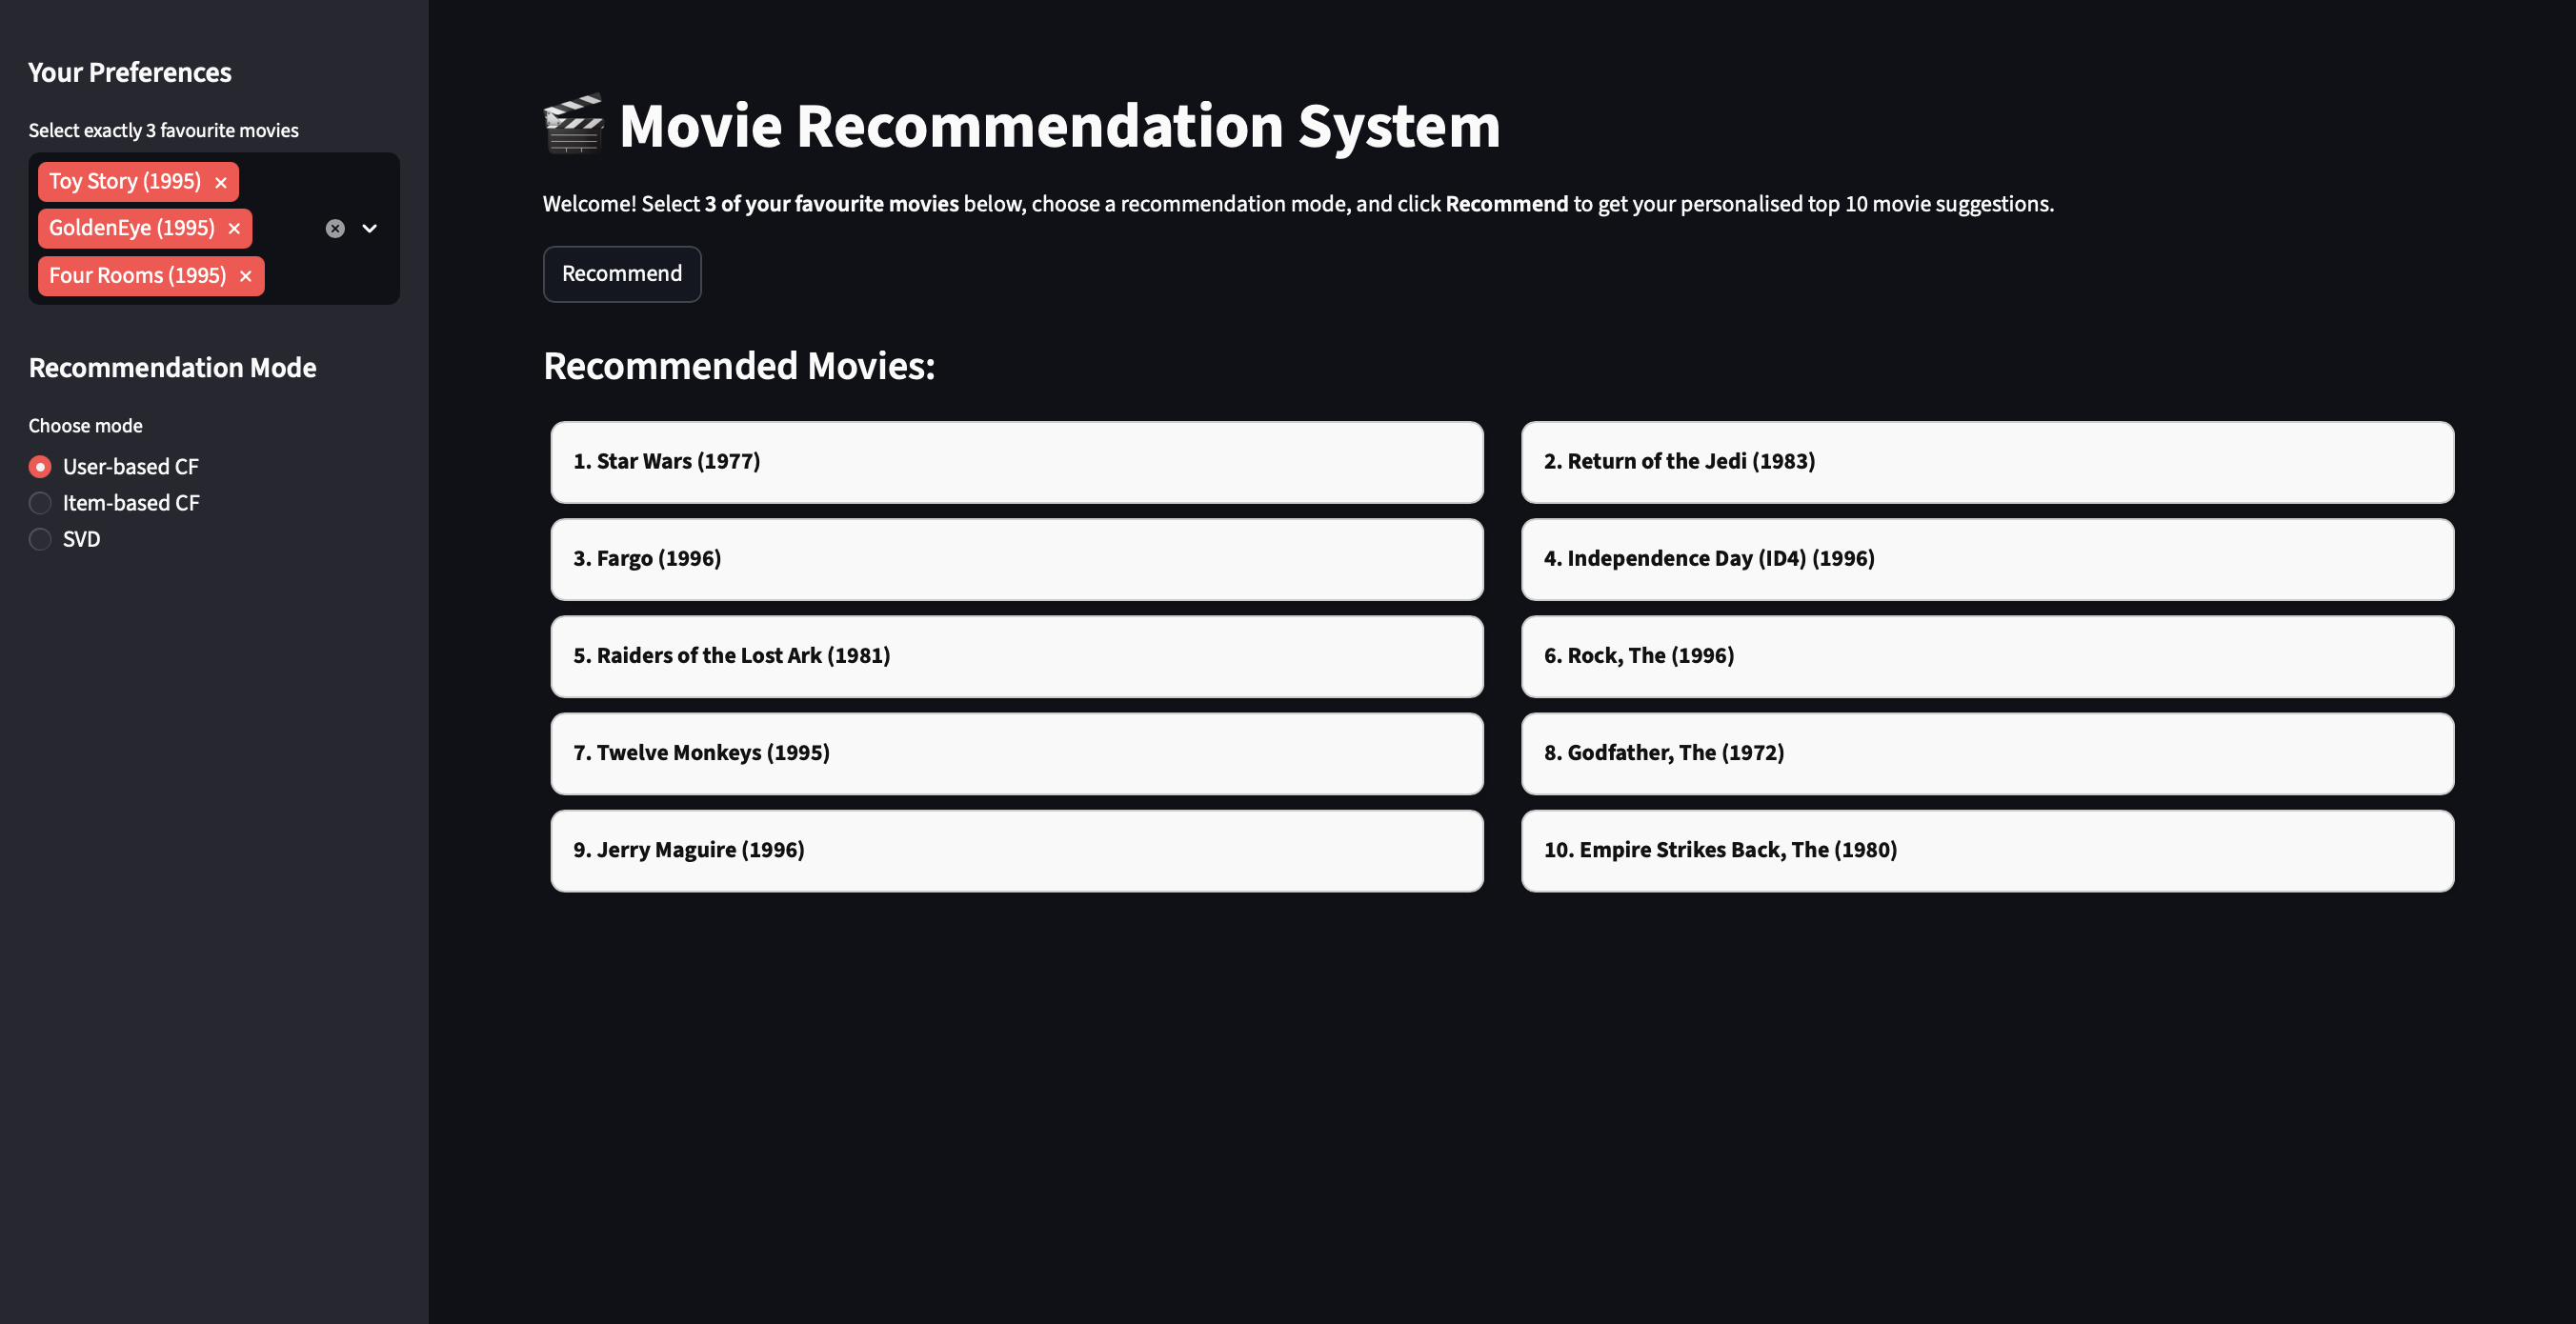
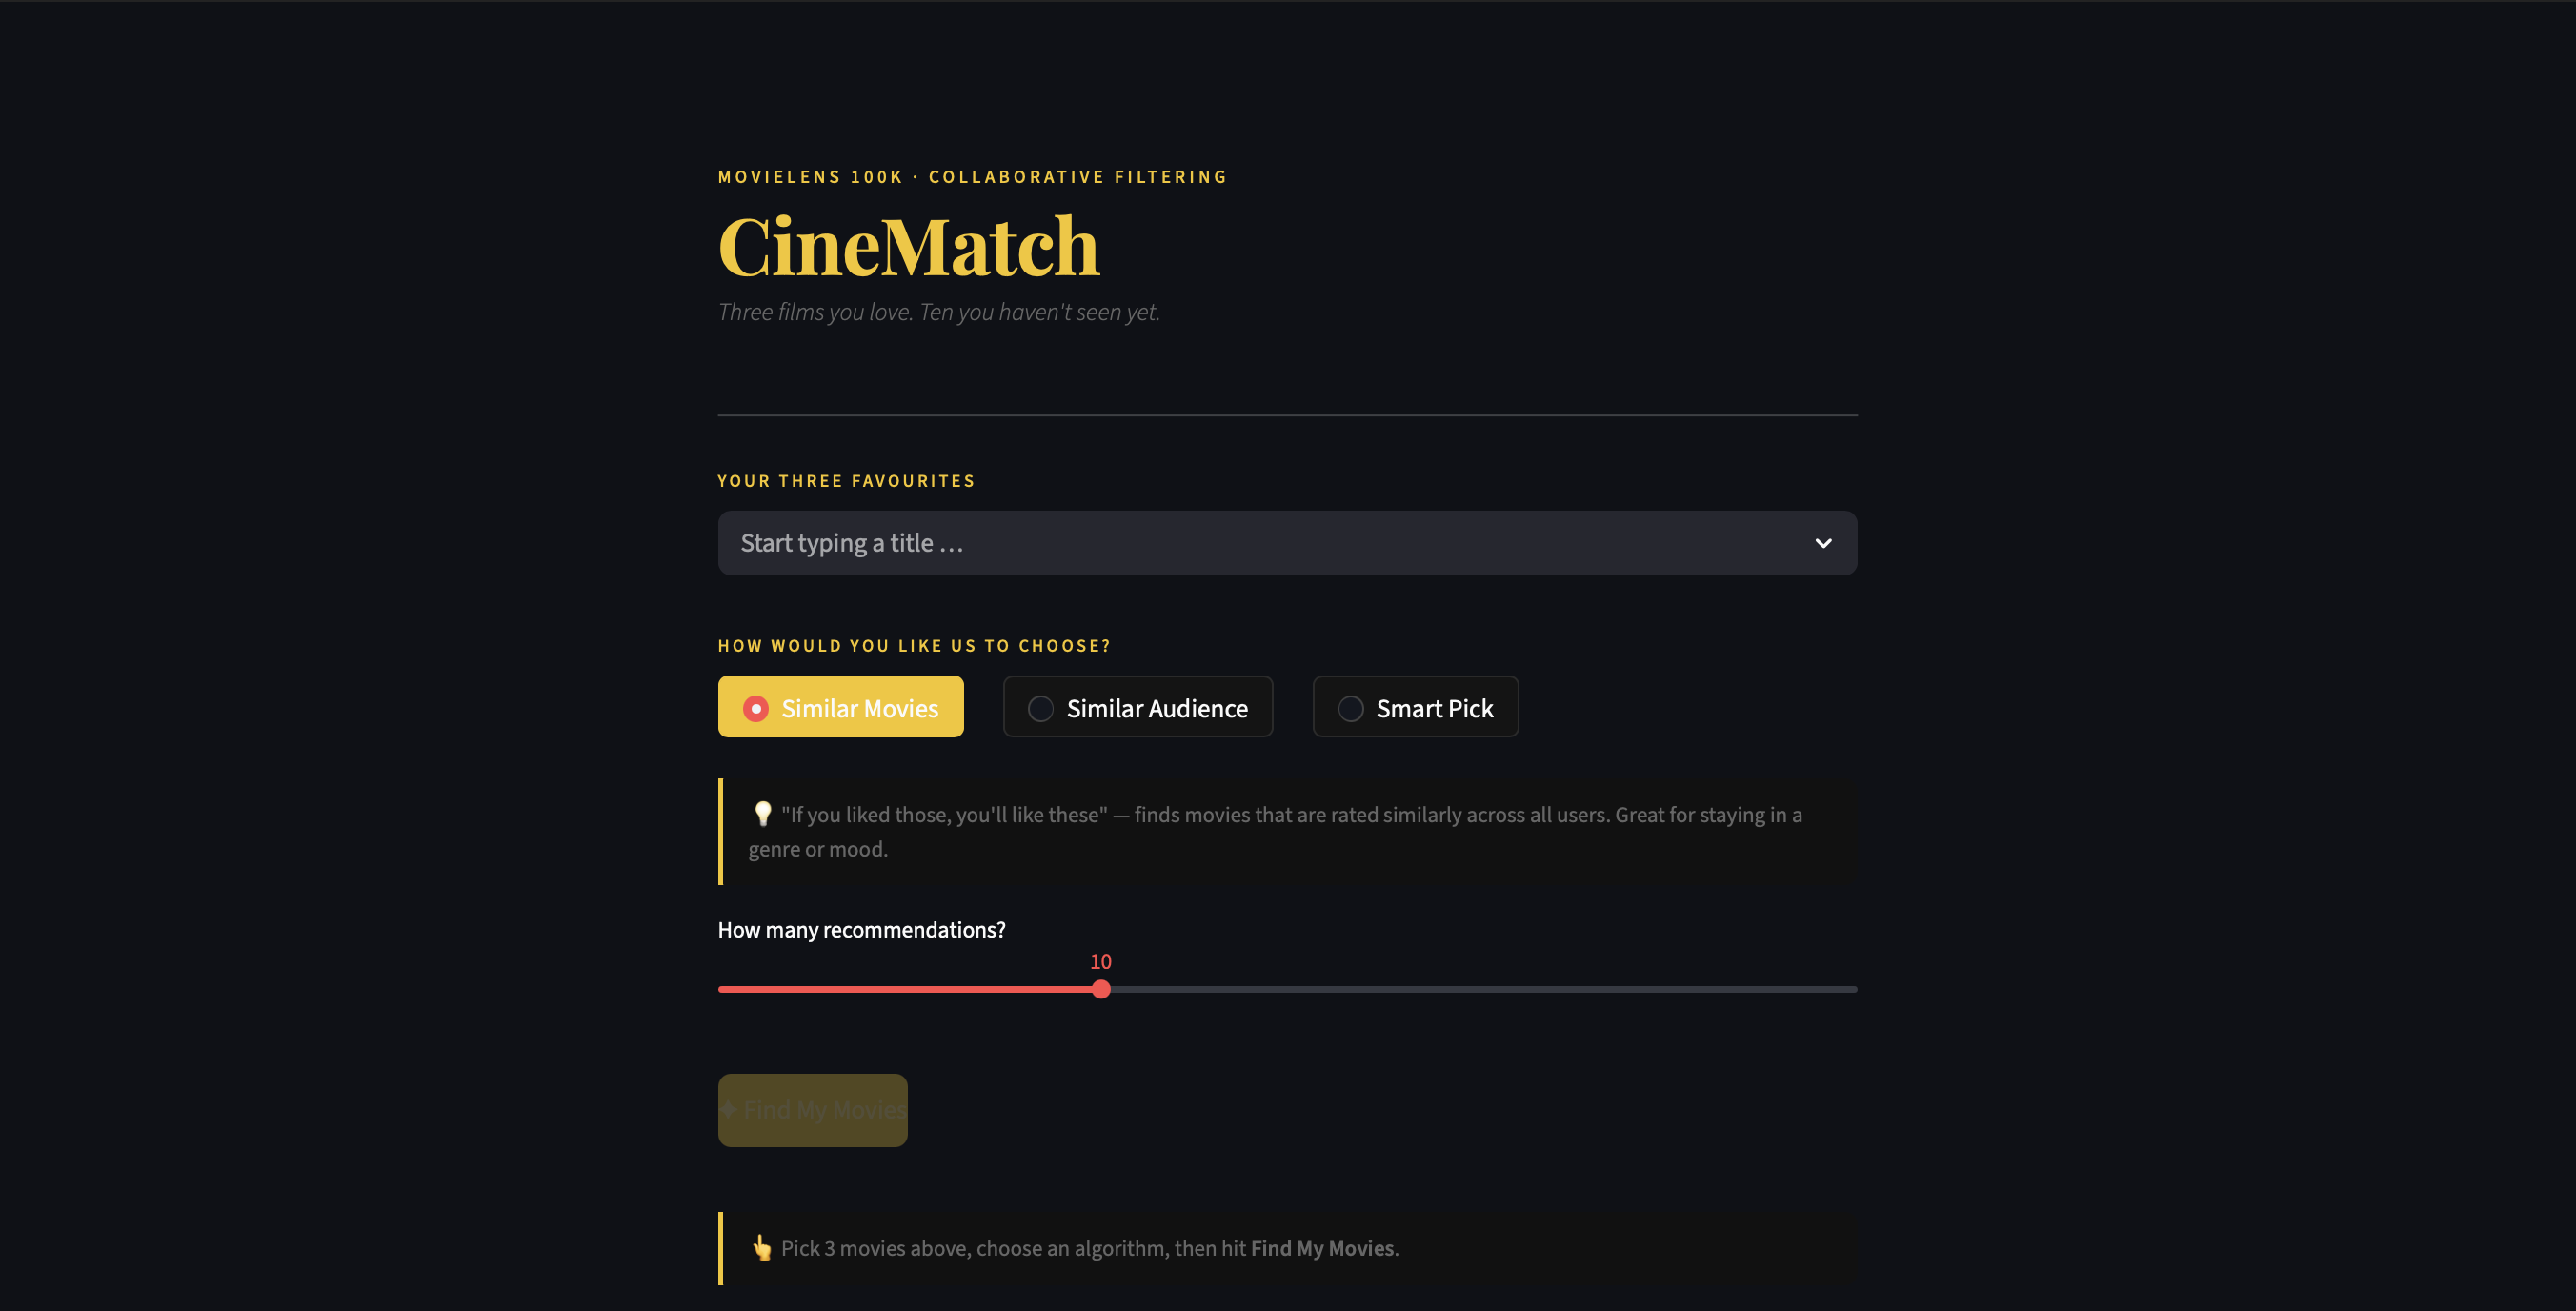
updated info

diff --git a/mai-cv/src/data/projectsData.ts b/mai-cv/src/data/projectsData.ts
@@ -1,7 +1,7 @@
 export interface Project {
   id: number;
   title: string;
-  type: "AI & ML" | "Data Science" | "Software" | "Embedded Systems";
+  type: "AI & ML" | "Data Analysis" | "Software" | "Embedded Systems";
   subType?: string;
 
   problem: string;
@@ -24,10 +24,10 @@ export const projectsData: Project[] = [
     imgSrc: "/projects/premier-league.png",
 
     problem:
-      "Predicting football match outcomes is difficult , results depend on form, momentum, opponent strength, and market expectations, all of which change week to week.",
+      "Football match outcomes are shaped by a complex interplay of team form, momentum, opponent strength, and market expectations — all of which shift week to week, making reliable prediction inherently difficult.",
 
     solution:
-      "Built an end-to-end prediction pipeline using 4 seasons of Premier League data (1,520 matches). Engineered features including rolling form averages, win/loss streaks, and bookmaker-implied probabilities. Trained and tuned a Random Forest classifier achieving 66% accuracy, Deployed as an interactive web app where users can select any fixture and receive a prediction with plain-English reasoning explaining the key factors behind it.",
+      "Built an end-to-end prediction pipeline trained on four seasons of Premier League data (1,520 matches). Engineered features including rolling form averages, win/loss streaks, and bookmaker-implied probabilities. Trained and optimised a Random Forest classifier achieving 66% accuracy, then deployed it as an interactive Streamlit web app where users can select any fixture and receive a prediction with plain-English reasoning explaining the key contributing factors.",
 
     stack: ["Python,", "Pandas,", "Scikit-learn,", "TensorFlow,", "Matplotlib,", "Streamlit,","Rest API"],
 
@@ -42,10 +42,10 @@ export const projectsData: Project[] = [
     title: "Engine Anomaly Detection & RUL Prediction",
 
     problem:
-      "Reactive maintenance increases operational cost and failure risk in industrial systems.",
+      "In industrial systems, degradation often goes undetected until a critical threshold is reached — making reactive maintenance strategies costly and operationally risky.",
 
     solution:
-      "Designed a GRU-based recurrent neural network to model degradation patterns in  engine time-series data. Implemented sequence modelling and early anomaly detection to estimate remaining useful life prior to failure thresholds.",
+      "Designed a GRU-based recurrent neural network to model temporal degradation patterns in engine sensor time-series data. Implemented sequence modelling and early anomaly detection to estimate remaining useful life prior to failure thresholds, enabling proactive maintenance scheduling.",
 
     stack: ["Python,", "TensorFlow,", "GRU,", "Pandas,", "NumPy"],
 
@@ -60,10 +60,10 @@ export const projectsData: Project[] = [
     title: "Traffic Violation Detection (In Progress)",
 
     problem:
-      "Manual CCTV monitoring is inconsistent and does not scale.",
+      "Manual CCTV monitoring is inconsistent, labour-intensive, and fails to scale effectively for real-time enforcement across large traffic networks.",
 
     solution:
-      "Building a real-time object detection pipeline using YOLOv8 and OpenCV. The system identifies vehicles and rule violations directly from video streams, optimised for inference speed and detection accuracy.",
+      "Building a real-time object detection pipeline using YOLOv8 and OpenCV to identify vehicles and traffic rule violations directly from live video streams, optimised for inference speed and detection accuracy under varying environmental conditions.",
 
     stack: ["Python,", "YOLOv8,", "OpenCV,", "PyTorch,"],
 
@@ -79,10 +79,10 @@ export const projectsData: Project[] = [
     imgSrc: "/projects/CVMatcher.png",
 
     problem:
-      "Applicants struggle to quantify CV alignment with job specifications.",
+      "Applicants often struggle to objectively assess how well their CV aligns with a job specification, leading to unfocused applications and missed opportunities.",
 
     solution:
-      "Developed an NLP pipeline using TF-IDF and semantic similarity scoring to rank CV-job relevance. Deployed via Streamlit for interactive comparison and automated skill-gap highlighting.",
+      "Developed an NLP pipeline using TF-IDF vectorisation and semantic similarity scoring to rank CV-to-job-description relevance. Deployed as an interactive Streamlit web app with automated skill-gap highlighting to provide actionable feedback.",
 
     stack: ["Python,", "spaCy,", "Scikit-learn,", "TF-IDF,", "Streamlit"],
 
@@ -98,14 +98,14 @@ export const projectsData: Project[] = [
   imgSrc: "/projects/MovieRecommendation.png",
 
   problem:
-    "Users face content overload without personalised filtering.",
+    "Users face content overload on streaming platforms, where the absence of meaningful personalisation makes discovering relevant titles time-consuming and frustrating.",
 
   solution:
-    "Implemented collaborative filtering with similarity scoring and matrix factorisation. Generated ranked recommendations using user-item interaction matrices and cosine similarity optimisation.",
+    "Implemented a collaborative filtering system using matrix factorisation and cosine similarity scoring over user-item interaction matrices. Generated ranked, personalised recommendations that improve in relevance as interaction history grows.",
 
   stack: ["Python,", "Pandas,", "NumPy,", "Scikit-learn,", "Matplotlib"],
   githubLink:
-    "https://github.com/maik122/Elevvo.git"
+    "https://recommendamovie.streamlit.app/"
 },
 {
   id: 35,
@@ -115,10 +115,10 @@ export const projectsData: Project[] = [
   imgSrc: "/projects/genre-ai.png",
 
   problem:
-    "Audio signals contain complex frequency patterns not captured by raw metadata.",
+    "Audio signals contain rich, complex frequency patterns that raw metadata alone cannot capture, making automated genre classification a non-trivial deep learning challenge.",
 
   solution:
-    "Extracted MFCC features and spectrogram representations. Built CNN-based classifiers and experimented with transfer learning to improve multi-class genre prediction performance..",
+    "Extracted MFCC features and spectrogram representations from audio samples. Developed CNN-based classifiers and applied transfer learning techniques to improve multi-class genre prediction performance across diverse audio inputs.",
 
   stack: ["Python,", "TensorFlow,", "Keras,", "Librosa,", "OpenCV"],
   githubLink:
@@ -131,28 +131,45 @@ export const projectsData: Project[] = [
   title: "Traffic Sign Recognition",
 
   problem:
-    "Autonomous systems require reliable visual classification under varying environmental conditions.",
+    "Autonomous driving systems require robust, reliable visual classification of traffic signs under varying lighting, occlusion, and real-world environmental conditions.",
 
   solution:
-    "Trained convolutional neural networks on augmented traffic sign datasets. Compared custom architectures with MobileNet-based transfer learning to improve generalisation accuracy.",
+    "Trained convolutional neural networks on augmented traffic sign datasets, benchmarking custom CNN architectures against MobileNet-based transfer learning to evaluate generalisation accuracy and inference performance.",
 
   stack: ["Python,", "TensorFlow,", "Keras,", "OpenCV"],   
   githubLink:
     "https://github.com/maik122/Elevvo.git"
+  
 },
-  // ================= Data Science =================
+{
+  id: 33,
+  type: "AI & ML",
+  subType: "Machine Learning & Predictive Modelling",
+  title: "Loan Approval Prediction",
+
+  problem:
+    "Financial institutions need accurate, interpretable models to assess loan approval outcomes consistently while managing default risk across diverse applicant profiles.",
+
+  solution:
+    "Preprocessed applicant data by handling missing values, encoding categorical features, and addressing class imbalance. Trained and evaluated classification models using precision, recall, and F1-score to ensure reliable, balanced performance across approval outcomes.",
+
+  stack: ["Python,", "Pandas,", "Scikit-learn,", "Matplotlib"],
+  githubLink:
+    "https://github.com/maik122/Elevvo.git" 
+},
+  // ================= Data Analysis =================
 
   {
     id: 5,
-    type: "Data Science",
-    subType: "Data Analysis & Exploratory Projects",
-    title: "Netflix Movies & TV Shows EDA",
+    type: "Data Analysis",
+    subType: "Exploratory Data Analysis",
+    title: "Netflix Movies & TV Shows ",
 
     problem:
-      "Large content libraries obscure strategic production and distribution trends.",
+      "Large content libraries obscure underlying trends in production strategy, genre investment, and regional distribution — making data-driven insights difficult to surface without structured analysis.",
 
     solution:
-      "Performed structured exploratory analysis on 8,800+ titles. Cleaned and transformed data, identified genre distribution patterns, and visualised regional and temporal production trends to extract actionable insights.",
+      "Performed structured exploratory data analysis on 8,800+ titles. Cleaned and transformed raw catalogue data, identified genre distribution patterns, and visualised regional and temporal production trends to extract actionable strategic insights.",
 
     stack: ["Python,", "Pandas,", "Matplotlib,", "Seaborn,"],
 
@@ -162,15 +179,15 @@ export const projectsData: Project[] = [
 
   {
     id: 6,
-    type: "Data Science",
-    subType: "Machine Learning & Predictive Modelling",
+    type: "Data Analysis",
+    subType: "Classification & Clustering",
     title: "Customer Segmentation — Mall Customers",
 
     problem:
-      "Generic marketing reduces targeting efficiency.",
+      "Generic, untargeted marketing campaigns reduce conversion efficiency by failing to account for the distinct spending behaviours and needs of different customer groups.",
 
     solution:
-      "Applied K-Means and DBSCAN clustering after feature scaling to segment customers by income and spending behaviour. Analysed cluster profiles to support targeted campaign strategies.",
+      "Applied K-Means and DBSCAN clustering algorithms after feature scaling to segment customers by income and spending behaviour. Analysed cluster profiles to generate targeted campaign recommendations tailored to each distinct customer segment.",
 
     stack: ["Python,", "Scikit-learn,", "Pandas,", "Matplotlib,", "Seaborn,"],
 
@@ -179,15 +196,15 @@ export const projectsData: Project[] = [
   },
 {
   id: 31,
-  type: "Data Science",
-  subType: "Machine Learning & Predictive Modelling",
+  type: "Data Analysis",
+  subType: "Prediction & Forecasting",
   title: "Student Score Prediction",
 
   problem:
-    "Educational outcomes are influenced by multiple behavioural variables.",
+    "Academic performance is influenced by a range of behavioural and demographic variables, making it difficult to identify at-risk students without a structured predictive framework.",
 
   solution:
-    "Performed data cleaning and exploratory analysis, then implemented linear and polynomial regression models to predict exam scores. Evaluated model accuracy and visualised predictions to understand performance patterns.",
+    "Performed data cleaning and exploratory analysis before implementing linear and polynomial regression models to predict exam scores. Evaluated model accuracy and visualised prediction trends to surface key behavioural drivers of student performance.",
 
   stack: ["Python,", "Pandas,", "Scikit-learn,", "Matplotlib"],
   githubLink:
@@ -195,49 +212,33 @@ export const projectsData: Project[] = [
 },
 {
   id: 32,
-  type: "Data Science",
-  subType: "Machine Learning & Predictive Modelling",
+  type: "Data Analysis",
+  subType: "Classification & Clustering",
   title: "Forest Cover Type Classification",
 
   problem:
-    "Accurately classifying forest cover types using environmental and cartographic features is essential for ecological management.",
+    "Accurately classifying forest cover types from environmental and cartographic features is essential for ecological resource management and land-use planning.",
 
   solution:
-    "Trained and compared Random Forest and XGBoost models for multi-class classification. Evaluated performance using classification metrics and visualised feature importance.",
+    "Trained and compared Random Forest and XGBoost models for multi-class forest cover classification. Evaluated performance using comprehensive classification metrics and visualised feature importance to interpret model behaviour.",
 
   stack: ["Python,", "Scikit-learn,", "XGBoost,", "Pandas,", "Matplotlib"],
 
   githubLink:
     "https://github.com/maik122/Elevvo.git"
 },
-{
-  id: 33,
-  type: "Data Science",
-  subType: "Machine Learning & Predictive Modelling",
-  title: "Loan Approval Prediction",
-
-  problem:
-    "Financial institutions need reliable models to predict loan approval outcomes while managing risk.",
-
-  solution:
-    "Handled missing values, encoded categorical features, and addressed class imbalance. Evaluated models using precision, recall, and F1-score to ensure reliability.",
-
-  stack: ["Python,", "Pandas,", "Scikit-learn,", "Matplotlib"],
-  githubLink:
-    "https://github.com/maik122/Elevvo.git" 
-},
 
 {
   id: 36,
-  type: "Data Science",
-  subType: "Time Series Forecasting",
+  type: "Data Analysis",
+  subType: "Prediction & Forecasting",
   title: "Sales Forecasting",
 
   problem:
-    "Businesses require accurate sales forecasts to optimise inventory and strategic planning.",
+    "Without accurate sales forecasts, businesses struggle to optimise inventory, allocate resources effectively, and make informed strategic planning decisions.",
 
   solution:
-    "Created time-based features and applied regression models to predict future sales. Explored rolling averages and XGBoost for improved time-aware forecasting.",
+    "Engineered time-based features and applied regression models to forecast future sales volumes. Explored rolling average smoothing and XGBoost-based approaches to improve time-aware prediction accuracy.",
 
   stack: ["Python,", "Pandas,", "XGBoost,", "Matplotlib,", "Seaborn"],
   githubLink:
@@ -254,10 +255,10 @@ export const projectsData: Project[] = [
     imgSrc: "/projects/TransferValueComparison.png",
 
     problem:
-      "Estimating football player market value requires combining statistical analysis with an accessible interface for users.",
+      "Estimating a football player's market value requires combining statistical performance data with an accessible interface — a balance rarely achieved in publicly available tools.",
 
     solution:
-      "Developed a Flask-based web application with SQLite database integration, user authentication, dashboards, and predictive valuation features.",
+      "Developed a Flask-based web application with SQLite database integration, user authentication, performance dashboards, and a predictive valuation feature for estimating player transfer market value.",
 
     stack: ["Python,", "Flask,", "SQLite,", "HTML,", "CSS,"],
 
@@ -273,10 +274,10 @@ export const projectsData: Project[] = [
     imgSrc: "/projects/systemHomePage.png",
 
     problem:
-      "Train booking systems require structured scheduling, seat management, and user/admin interfaces for efficient operation.",
+      "Railway booking systems must handle complex scheduling logic, seat availability management, and distinct user and administrator workflows within a single, cohesive application.",
 
     solution:
-      "Built a desktop-based railway booking system using Tkinter, featuring user ticket booking, schedule management, and administrative controls.",
+      "Built a desktop-based railway booking system using Tkinter, featuring end-user ticket booking, live schedule management, and a dedicated administrative control panel for staff operations.",
 
     stack: ["Python,", "Tkinter"],
 
@@ -292,10 +293,10 @@ export const projectsData: Project[] = [
     imgSrc: "/projects/HotelHomepage.png",
 
     problem:
-      "Hotels require a streamlined system to manage bookings, users, and administrative operations.",
+      "Hotels require a reliable system to manage room availability, guest bookings, and administrative operations through a unified and intuitive platform.",
 
     solution:
-      "Developed a full-stack Flask application with SQLAlchemy for database management, enabling user authentication, booking management, and admin dashboards.",
+      "Developed a full-stack Flask application with SQLAlchemy ORM for database management, supporting user authentication, booking workflows, and a comprehensive admin dashboard for operational oversight.",
 
     stack: ["Python,", "Flask,", "SQLAlchemy,", "HTML,", "CSS"],
 
@@ -311,10 +312,10 @@ export const projectsData: Project[] = [
     imgSrc: "/projects/DeveloperWebsite.png",
 
     problem:
-      "Developers need a structured platform to present projects, skills, and contact information professionally.",
+      "Developers need a polished, structured platform to present their projects, technical skills, and experience professionally to potential employers and collaborators.",
 
     solution:
-      "Built a responsive React-based portfolio website showcasing projects, experience, and technical skills with modern UI design.",
+      "Designed and built a fully responsive React portfolio website showcasing projects, work experience, and technical skills with a modern, performance-optimised UI.",
 
     stack: ["React,", "TypeScript,", "Tailwind CSS,", "Vite"],
 
@@ -330,10 +331,10 @@ export const projectsData: Project[] = [
     imgSrc: "/projects/ArtistWebsite.png",
 
     problem:
-      "Artists require a digital platform to showcase their work and connect with potential clients.",
+      "Artists require a professional digital platform to showcase their creative work and facilitate direct communication with potential clients and collaborators.",
 
     solution:
-      "Developed a full-stack React and Node.js application allowing content management, portfolio display, and client communication features.",
+      "Developed a full-stack React and Node.js web application featuring dynamic portfolio display, content management capabilities, and integrated client communication tools.",
 
     stack: ["React,", "TypeScript,", "Tailwind CSS,", "Vite"],
     githubLink:
@@ -348,10 +349,10 @@ export const projectsData: Project[] = [
     imgSrc: "/projects/MIDICompositionTool.png",
 
     problem:
-      "Composers often struggle with generating harmonically consistent chord progressions quickly within DAWs.",
+      "Composers working within DAW environments often lack efficient tools for generating harmonically consistent chord progressions on demand, disrupting creative flow.",
 
     solution:
-      "Created a MIDI chord-generation tool for Logic Pro using the Scripter plugin, enabling fast, key-consistent chord creation directly inside the DAW workflow.",
+      "Created a MIDI chord-generation tool for Logic Pro using the Scripter plugin framework, enabling rapid, key-consistent chord creation directly within the DAW and eliminating the need to context-switch during composition.",
 
     stack: ["JavaScript,", "Logic Pro Scripter,", "MIDI,"]
   },
@@ -366,10 +367,10 @@ export const projectsData: Project[] = [
     imgSrc: "/projects/MIDIController.png",
 
     problem:
-      "Off-the-shelf MIDI controllers often lack custom workflow features required for specific composition and performance needs.",
+      "Off-the-shelf MIDI controllers rarely accommodate the bespoke workflow requirements of specific composition and live performance setups, limiting creative flexibility.",
 
     solution:
-      "Designed and built a standalone custom MIDI controller using a microcontroller and custom hardware inputs for studio and live performance integration.",
+      "Designed and built a standalone custom MIDI controller from the ground up using a microcontroller and purpose-built hardware inputs, fully integrated for both studio recording and live performance environments.",
 
     stack: ["Microcontroller,", "C ++,", "MIDI Protocol,", "Hardware Prototyping,"],
     githubLink:

diff --git a/mai-cv/src/pages/SelectedWorks.tsx b/mai-cv/src/pages/SelectedWorks.tsx
@@ -31,7 +31,7 @@ const SelectedWorks = () => {
   const [activeTab, setActiveTab] = useState("AI & ML");
   const modalRef = useRef<HTMLDivElement>(null);
 
-  const tabs = ["AI & ML", "Data Science", "Software", "Embedded Systems"];
+  const tabs = ["AI & ML", "Data Analysis", "Software", "Embedded Systems"];
   const currentProject = projectsData.find((p: Project) => p.title === openCard);
 
   useEffect(() => {